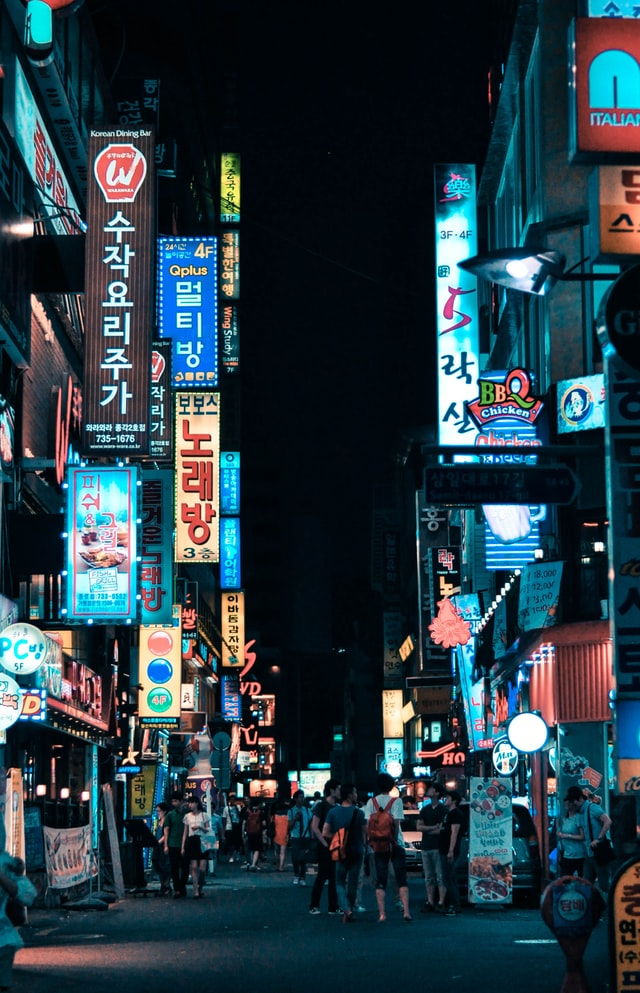
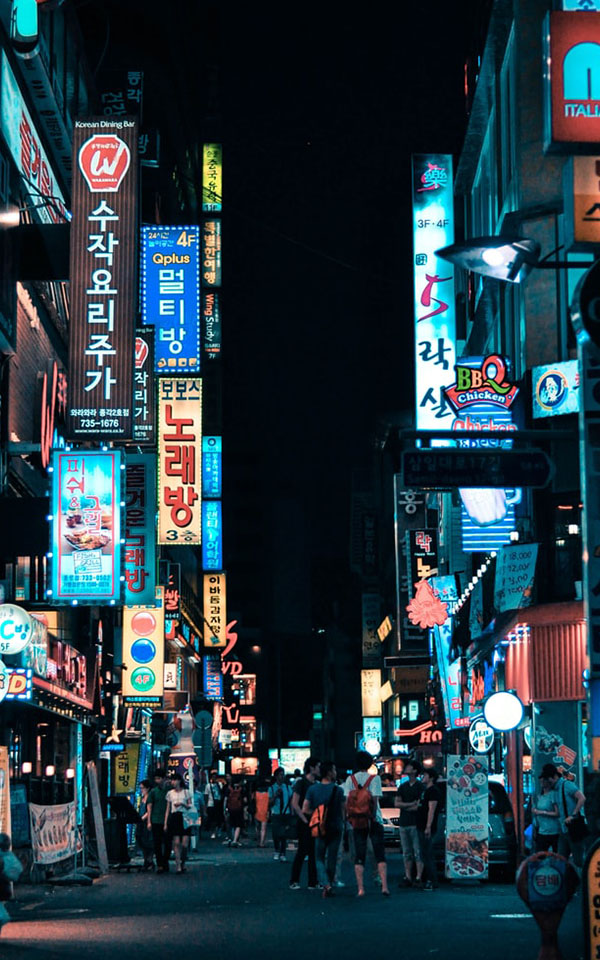
More mobile optimization

diff --git a/css/styles.css b/css/styles.css
@@ -822,20 +822,19 @@
 
 .town_pictures {
   width: 100%;
+  height: auto;
 }
 
 .town_pictures > li {
   z-index: 10;
   position: relative;
   flex: 1;
-  height: 36rem;
   overflow: hidden;
 }
 
 .town_pictures > li > img {
-  position: absolute;
-  bottom: 0;
   width: 100%;
+  height: auto;
 }
 
 .town_pictures > li::before {
@@ -897,14 +896,15 @@
   font-size: 2.625rem;
   z-index: 10;
   margin-left: 5rem;
+  margin-top: 40vh;
 }
 
 .town_title_deal {
+  position: absolute;
   z-index: 100;
   margin-left: 5rem;
-  margin-top: 40vh;
+  top: calc(40vh - 3rem);
 
-  padding-bottom: 1rem;
   text-transform: uppercase;
   font-size: 1.6rem;
   font-weight: 600;
@@ -998,6 +998,80 @@
   background-repeat: no-repeat;
   background-position: center;
   background-size: cover;
+}
+
+@media only screen and (max-width: 1600px) {
+  .town_links {
+    padding: 2.5rem 3rem;
+  }
+
+  .town_links a {
+    position: relative;
+    font-size: 0.875rem;
+  }
+
+  .town_bunner > p {
+    margin-top: 1rem;
+    margin-left: 3rem;
+    font-size: 0.875rem;
+  }
+
+  .town_bunner > h1 {
+    font-size: 2.25rem;
+    margin-left: 3rem;
+  }
+
+  .town_title_deal {
+    margin-left: 3rem;
+    top: calc(40vh - 2rem);
+
+    font-size: 1.2rem;
+  }
+
+  .town_content {
+    grid-template-columns: 1fr 36rem 36rem 1fr;
+    grid-template-rows: auto 22rem 44rem 22rem 22rem;
+  }
+
+  .town_content > p {
+    font-size: 0.875rem;
+  }
+
+  .town_pictures > li::before {
+    opacity: 0;
+  }
+}
+
+@media only screen and (max-width: 80rem) {
+  .town_content {
+    grid-template-columns: 1fr 1fr;
+    grid-template-rows: auto 22rem 44rem 22rem 22rem;
+    grid-template-areas:
+      "clip clip"
+      "p1 img1"
+      "img2 p2"
+      "p3 img3"
+      "img4 p4";
+  }
+
+  .country_clip {
+    grid-column: 1 / 3;
+    grid-row: 1 / 2;
+  }
+
+  .country_content > p {
+    grid-column: 1 / 2;
+    grid-row: 2 / 3;
+    padding-left: 3rem;
+    padding-right: 3rem;
+    padding-top: 5rem;
+    padding-bottom: 5rem;
+  }
+
+  #country_content_aft {
+    grid-column: 2 / 3;
+    grid-row: 2 / 3;
+  }
 }
 
 /* ------------------------------ Info Section ----------------------------- */
@@ -1202,4 +1276,68 @@
 
 #info_activities article:nth-of-type(2) section:nth-of-type(1) p {
   color: var(--color-most-bright);
+}
+
+@media only screen and (max-width: 1600px) {
+  .info_bunner > h2 {
+    font-size: 1.2rem;
+    margin-left: 3rem;
+    margin-bottom: 2rem;
+    margin-top: .8rem;
+  }
+
+  .info_bunner > h1 {
+    font-size: 2.2rem;
+    margin-left: 3rem;
+  }
+
+  .info_tile > * {
+    width: 72rem;
+  }
+
+  .info_bunner p {
+    font-size: 0.875rem;
+  }
+
+  .town_content {
+    grid-template-columns: 1fr 36rem 36rem 1fr;
+    grid-template-rows: auto 22rem 44rem 22rem 22rem;
+  }
+
+
+  .town_pictures > li::before {
+    opacity: 0;
+  }
+}
+
+@media only screen and (max-width: 80rem) {
+  .town_content {
+    grid-template-columns: 1fr 1fr;
+    grid-template-rows: auto 22rem 44rem 22rem 22rem;
+    grid-template-areas:
+      "clip clip"
+      "p1 img1"
+      "img2 p2"
+      "p3 img3"
+      "img4 p4";
+  }
+
+  .country_clip {
+    grid-column: 1 / 3;
+    grid-row: 1 / 2;
+  }
+
+  .country_content > p {
+    grid-column: 1 / 2;
+    grid-row: 2 / 3;
+    padding-left: 3rem;
+    padding-right: 3rem;
+    padding-top: 5rem;
+    padding-bottom: 5rem;
+  }
+
+  #country_content_aft {
+    grid-column: 2 / 3;
+    grid-row: 2 / 3;
+  }
 }

diff --git a/pages/south-korea-seoul.html b/pages/south-korea-seoul.html
@@ -70,16 +70,16 @@
       </ul>
       <ul class="town_pictures">
         <li>
-          <!-- <img width="360px" src="/img/info-Seoul.jpg" alt="Night Seoul" /> -->
+          <img width="360px" src="/img/info-Seoul.jpg" alt="Night Seoul" />
         </li>
         <li>
-          <!-- <img width="360px" src="/img/info-Seoul-7.jpg" alt="Day Seoul" /> -->
+          <img width="360px" src="/img/info-Seoul-7.jpg" alt="Day Seoul" />
         </li>
         <li>
-          <!-- <img width="360px" src="/img/info-Seoul-3.jpg" alt="Seoul's tower" /> -->
+          <img width="360px" src="/img/info-Seoul-3.jpg" alt="Seoul's tower" />
         </li>
         <li>
-          <!-- <img width="360px" src="/img/info-Seoul-4.jpg" alt="Seoul's bridge" /> -->
+          <img width="360px" src="/img/info-Seoul-4.jpg" alt="Seoul's bridge" />
         </li>
       </ul>
     </header>

diff --git a/css/elements.css b/css/elements.css
@@ -73,7 +73,7 @@ nav,
 
 /* ---------------------------- Navigation Bar ----------------------------- */
 nav {
-    z-index: 100;
+    z-index: 100000;
     position: fixed;
     top: 0;
 
